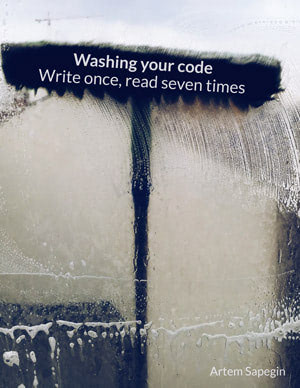
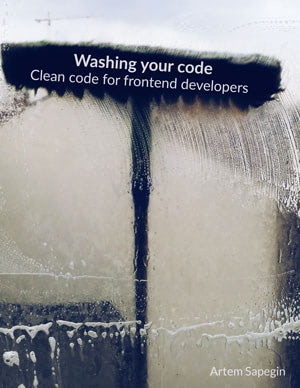
Update links 🍔

Changed region(s): [[0.09, 0.1237, 0.84, 0.2474]]

diff --git a/src/components/Menu.tsx b/src/components/Menu.tsx
@@ -25,8 +25,8 @@ const ITEMS: Item[] = [
 		href: 'https://blog.sapegin.me/til/',
 	},
 	{
-		title: 'Speaking',
-		href: '/speaking/',
+		title: 'Book',
+		href: 'https://blog.sapegin.me/book/',
 	},
 	{
 		title: 'Photography',

diff --git a/content/index.md b/content/index.md
@@ -2,12 +2,12 @@
 layout: Index
 pageTitle: 'Artem Sapegin: frontend engineer, photographer & friend of dogs'
 books:
-  - title: Washing your code. Write once, read seven times
-    description: Writing clean JavaScript code
-    link: https://leanpub.com/washingcode/
+  - title: Washing your code
+    description: Clean code for frontend developers
+    link: https://blog.sapegin.me/book/
     cover: washing-your-code-cover-small.jpg
-  - title: SurviveJS — Maintenance (co-author)
-    description: JavaScript open source project maintenance
+  - title: 'SurviveJS: Maintenance'
+    description: JavaScript open source project maintenance (co-author)
     link: https://survivejs.com/maintenance/
     cover: survivejs-maintenance-cover-small.png
 projects:
@@ -70,15 +70,9 @@ socials:
   - id: twitter
     name: Twitter
     link: https://twitter.com/iamsapegin
-  - id: facebook
-    name: Facebook
-    link: https://www.facebook.com/artemsapegin
   - id: devto
     name: DEV
     link: https://dev.to/sapegin
-  - id: instagram
-    name: Instagram
-    link: https://instagram.com/sapegin/
   - id: unsplash
     name: Unsplash
     link: https://unsplash.com/@sapegin
